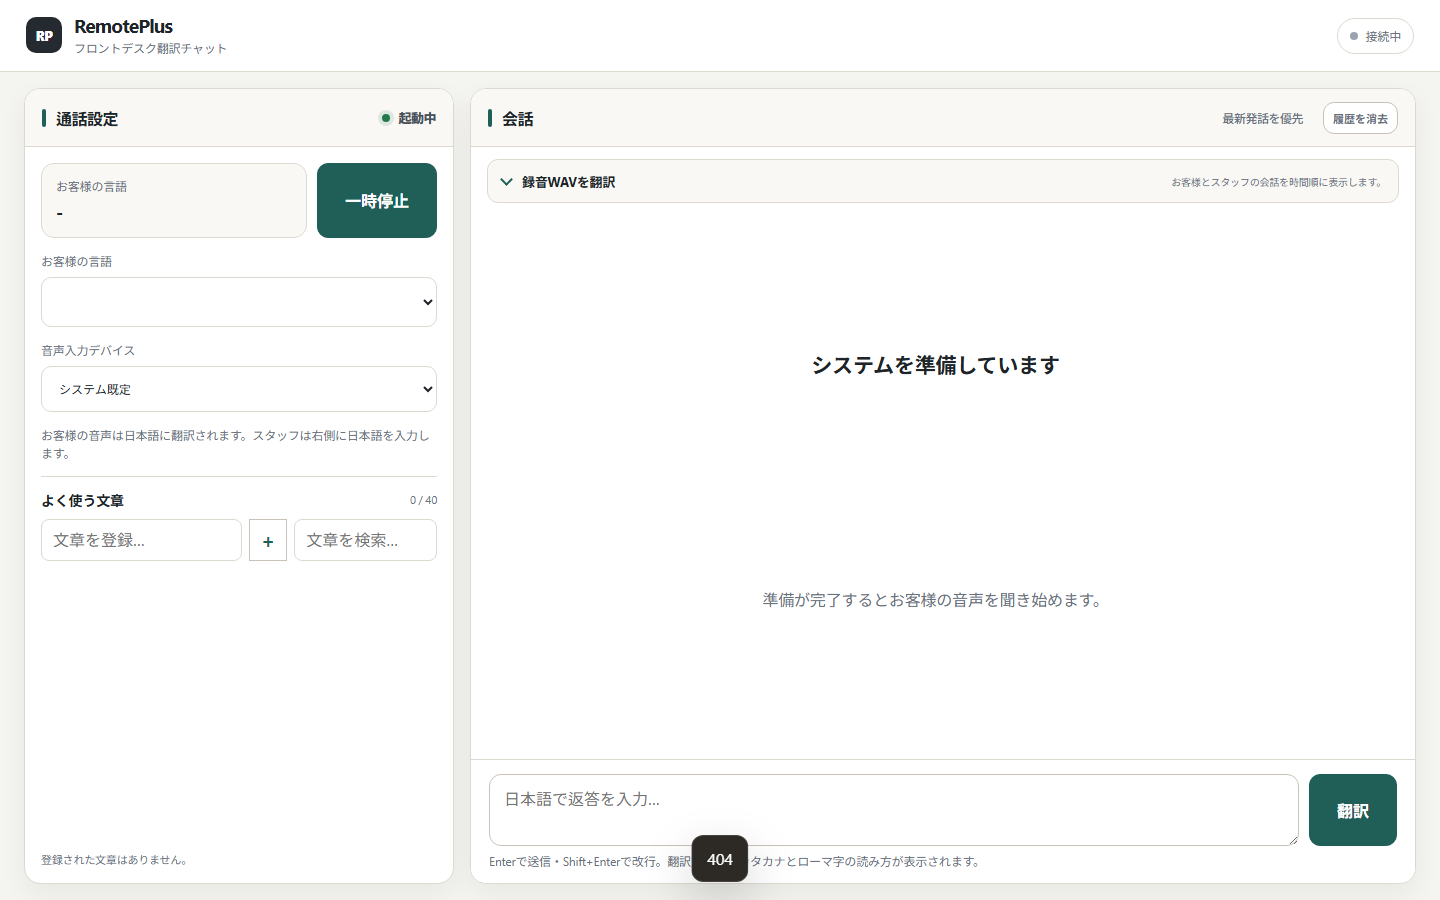
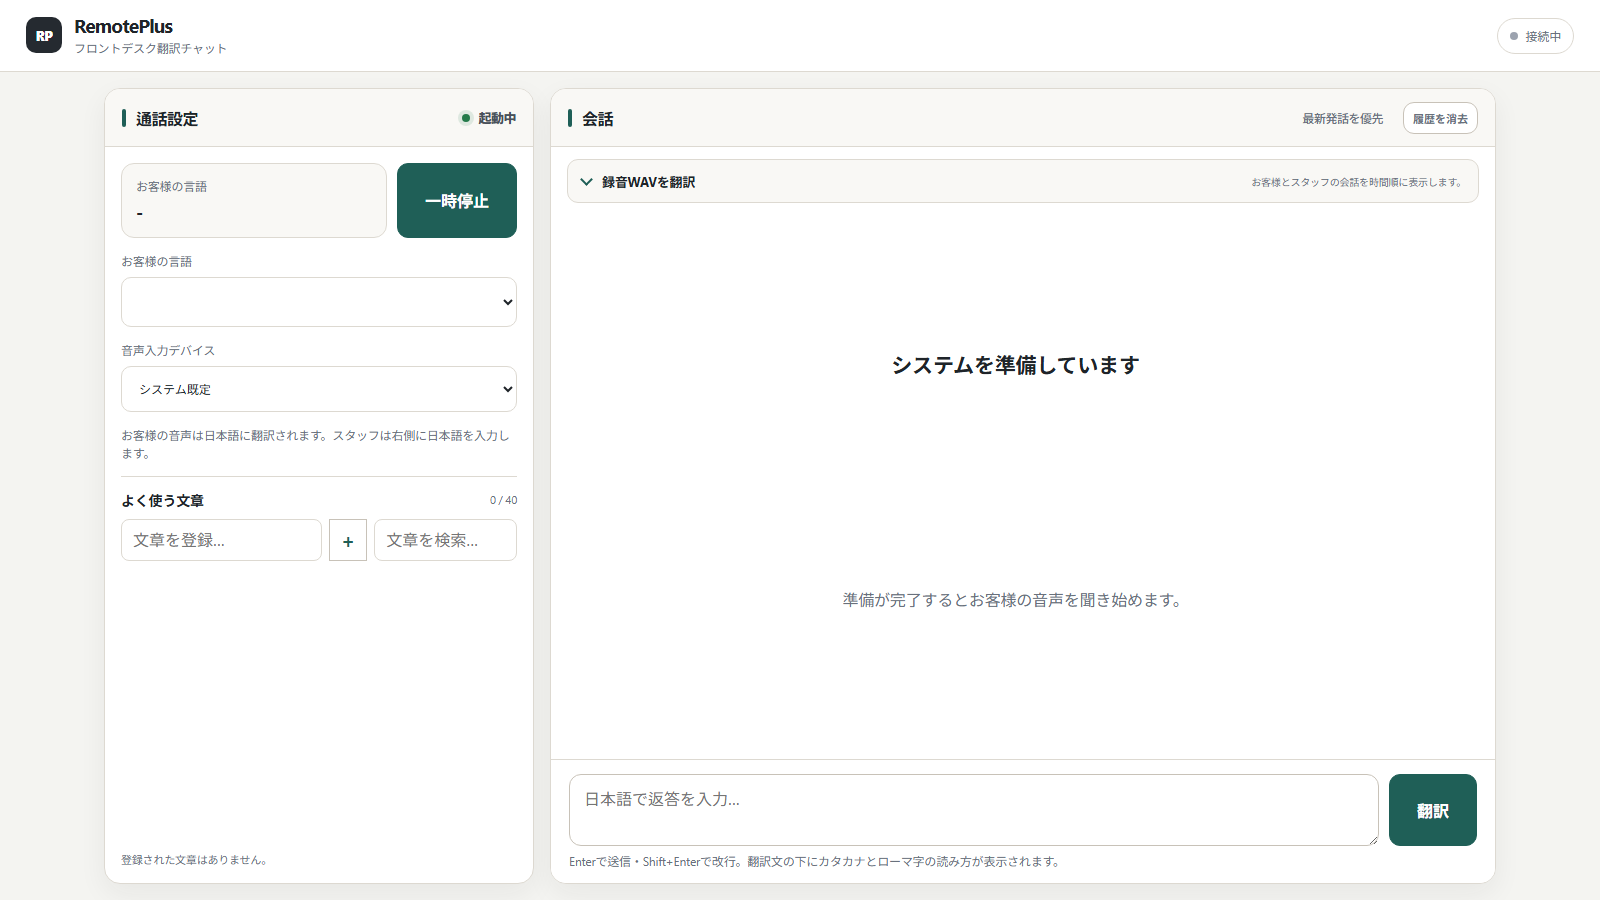
Remove capture artifacts

diff --git a/styles.css b/styles.css
@@ -73,11 +73,6 @@ body[data-lang="ja"] b.ja, body[data-lang="ja"] span.ja, body[data-lang="ja"] dd
 .profile-facts div { padding: 18px 0; border-bottom: 1px solid var(--line); }
 .profile-facts dt { color: var(--blue); font: 700 9px monospace; letter-spacing: .15em; }
 .profile-facts dd { margin: 7px 0 0; font-size: 17px; font-weight: 720; }
-.thesis-band { overflow: hidden; padding: 24px 0; border-block: 1px solid var(--line); background: var(--acid); }
-.thesis-band p { width: max-content; margin: 0; font: 900 clamp(1.5rem,4vw,4.6rem)/1 monospace; letter-spacing: -.06em; white-space: nowrap; animation: marquee 18s linear infinite; }
-.thesis-band i { margin: 0 22px; color: var(--blue); font-style: normal; }
-@keyframes marquee { to { transform: translateX(-24%); } }
-
 .dark { max-width: none; color: white; background: var(--ink); }
 .dark > * { max-width: calc(var(--max) - 68px); margin-inline: auto; }
 .dark .section-index { left: max(34px, calc((100vw - var(--max)) / 2 + 34px)); color: rgba(255,255,255,.18); }

diff --git a/index.html b/index.html
@@ -75,11 +75,6 @@
       </div>
     </section>
 
-    <section class="thesis-band" aria-label="핵심 메시지">
-      <p class="ko">VOICE <i>→</i> STT <i>→</i> TRANSLATE <i>→</i> READING GUIDE <i>→</i> DELIVER</p>
-      <p class="ja">音声 <i>→</i> 音声認識 <i>→</i> 翻訳 <i>→</i> 読み方支援 <i>→</i> 提供</p>
-    </section>
-
     <section class="work section dark" id="work">
       <div class="section-index">01</div>
       <div class="section-heading reveal">
